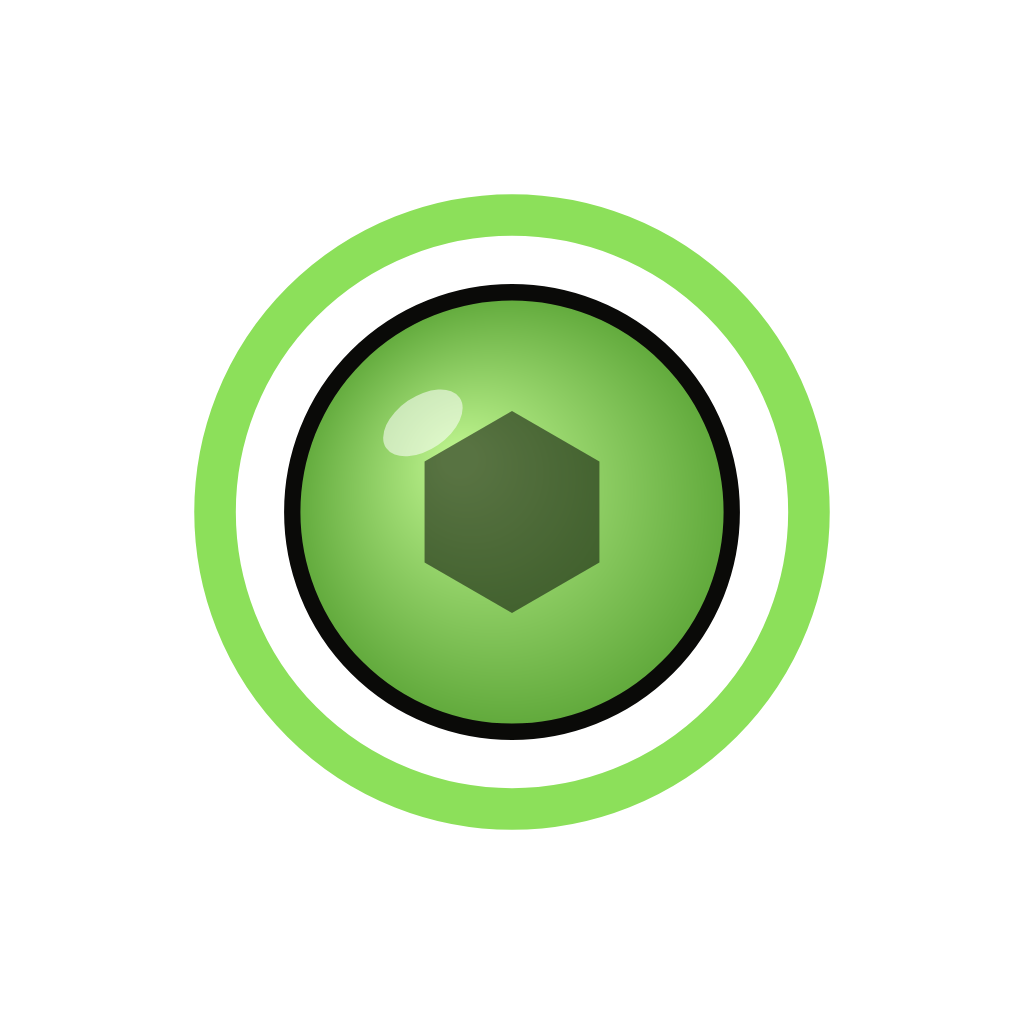
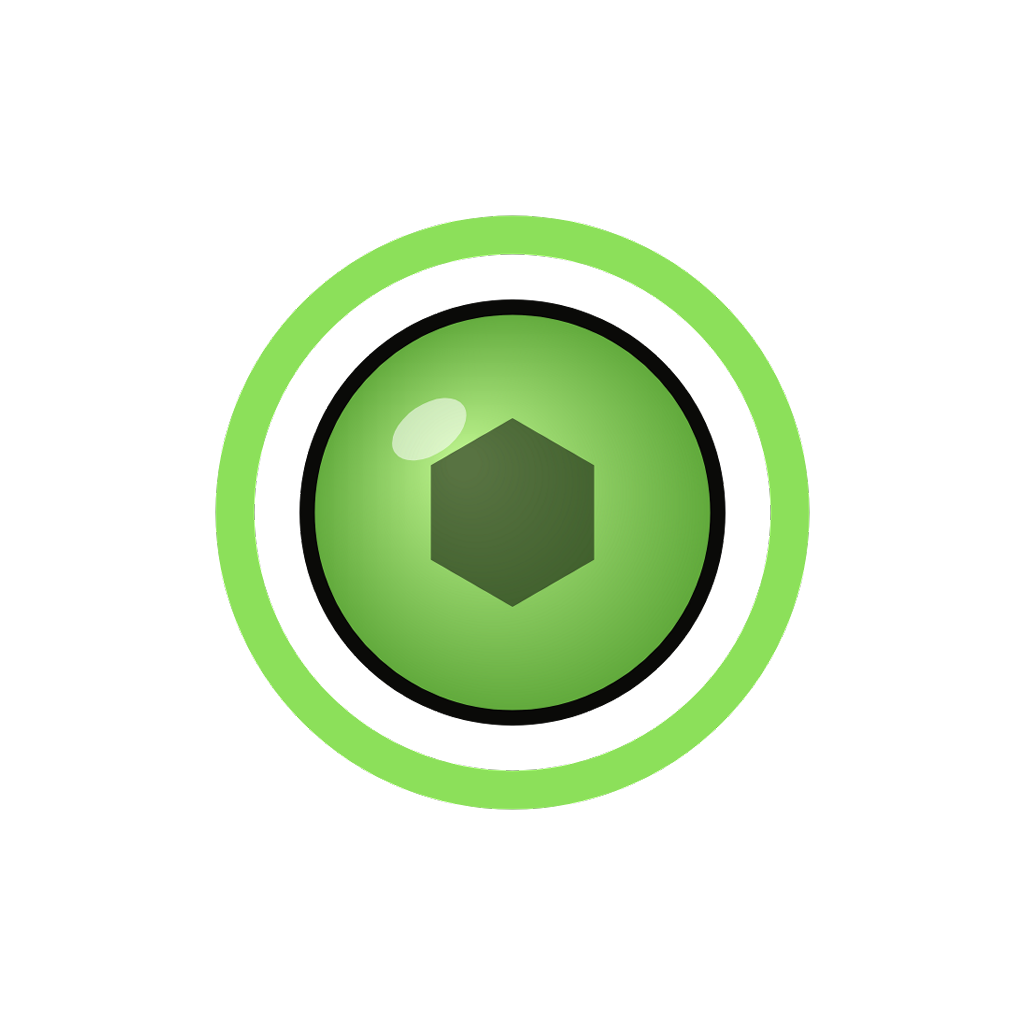
fix: Android adaptif ikonu güvenli alana çekildi
adaptive-icon.png ile splash-icon.png bire bir aynı dosyaydı; ikincisi hiçbir
zaman adaptif ön katman olarak tasarlanmamıştı.

ÖLÇÜM README'DEKİ TEŞHİSİ DÜZELTTİ. Orada "Android dış bölgeyi kırptığı için
logonun kenarları kesiliyor" yazıyordu — öyle değilmiş. Dosya saydam (%76.7
alfa-0, yani backgroundColor gerçekten görünüyor) ve içerik kanvasın %62.1'ini
kaplıyor, tam merkezde. Android'in ölçü sistemi üç halkalı: katman 108dp,
maskeye giren görüş alanı 72dp (%66.7), kritik içerik için güvenli daire 66dp
(%61.1). Yani logo görüş alanının İÇİNDEYDİ, kesilmiyordu — ama güvenli daireyi
bir puan aşıyor ve maskenin kenarına dayanıyordu: dairesel maskede halka görünür
alanın %93'üne kadar gidiyor, hiç nefes payı kalmıyordu.

Düzeltme: içerik %58'e (≈62.6dp) çekildi, güvenli dairenin içine. Logo tek
seferde yeniden örneklendi (bikübik), saydamlık korundu, merkez kayması tam
sıfır. Dosya artık splash-icon.png'nin kopyası değil, ikisi ayrıştı.

version 0.2.0 -> 0.3.0: ikon mipmap/ic_launcher_foreground olarak DERLENEN bir
native kaynak, kablosuz güncellemeyle gidemez. runtimeVersion politikası
appVersion olduğu için artırmak, bu ikonu taşımayan eski kurulumların yeni JS
güncellemelerini çekmesini de engelliyor.

README'de yanlış teşhis düzeltildi ve "Uygulama ikonu" başlığı eklendi: üç
varlığın oranları (icon %66.4 opak, adaptive %58 saydam, splash %62.1 saydam),
108/72/66dp ölçü sistemi, saydamlığın neden korunması gerektiği ve ölçümün nasıl
tekrarlanacağı.
[…]

diff --git a/README.md b/README.md
@@ -404,10 +404,29 @@ WAKE_LOCK  WRITE_EXTERNAL_STORAGE
 
 `SYSTEM_ALERT_WINDOW`, `READ_MEDIA_VIDEO`, `READ_MEDIA_AUDIO` ve `RECORD_AUDIO` listede yok. **Debug** varyantında ise `SYSTEM_ALERT_WINDOW` duruyor (medya izinleri orada da düşüyor) — yani dev menüsü çalışmaya devam ediyor, tasarlanan ayrım tutuyor.
 
+### Uygulama ikonu
+
+Üç ayrı varlık, üç ayrı kural — birini diğerinin yerine koyamazsın:
+
+| Dosya | Nerede | İçeriğin kanvasa oranı |
+|---|---|---|
+| `icon.png` | iOS + genel | %66.4, opak koyu zemin (köşeler yalnızca hafifçe yuvarlanıyor) |
+| `adaptive-icon.png` | Android launcher | **%58**, saydam zemin |
+| `splash-icon.png` | açılış ekranı | %62.1, saydam zemin (`imageWidth: 200` ile ayrıca ölçekleniyor) |
+
+Android'in adaptif ikonu üç halkalı bir ölçü sistemi kullanıyor: katman **108dp**, maskeye giren görüş alanı **72dp** (%66.7), kritik içerik için güvenli daire **66dp** (%61.1). Dış bölge parallax için ayrılmış ve durağan görünümde kırpılıyor.
+
+`adaptive-icon.png` eskiden `splash-icon.png` ile bire bir aynı dosyaydı; içerik %62.1'de, yani 66dp güvenli dairesinin bir puan dışındaydı. Kesilmiyordu ama maskenin kenarına dayanıyordu — dairesel maskede halka görünür alanın %93'üne kadar gidiyor, hiç nefes payı kalmıyordu. Şimdi %58'e çekildi (≈62.6dp), güvenli dairenin içinde.
+
+Zemin **dosyaya gömülmüyor**: ön katman saydam, arka plan `app.json` → `android.adaptiveIcon.backgroundColor` (`#0A0A08`) ile geliyor. Yeni bir varyant üretirken bu saydamlık korunmalı, yoksa maskenin köşelerinde ikonun kendi zemini görünür.
+
+Ölçmek için (herhangi bir görüntü aracıyla): saydam olmayan piksellerin sınır kutusunu al, kenar uzunluğunu kanvas genişliğine böl. Merkez kayması 0 olmalı.
+
+İkon **native bir kaynak** (`mipmap/ic_launcher_foreground`), yani kablosuz güncellemeyle gitmiyor — değiştirildiğinde `app.json`'daki `version` elle artırılmalı ve yeni bir build alınmalı.
+
 ## Bilinen açık uçlar
 
 - Onboarding tek ekranda (`welcome.tsx`); planlanan ek adımlar henüz yok. Akış bağlı ve testli — adım eklemek istendiğinde `app/index.tsx`'teki karara dokunmadan `(onboarding)` altına yeni ekran koymak yeterli.
 - Yasal metinler ve `settings/help.tsx`'in render testi yok — içerikleri statik. Veri yazan ve geri alınamaz akışların hepsi testli.
-- `assets/images/adaptive-icon.png` ile `splash-icon.png` bire bir aynı dosya. Android adaptif ikonun dış bölgesini kırptığı için logonun kenarları kesiliyor — güvenli alanı olan ayrı bir varyant gerekiyor.
 - `npm run gen:types` yalnızca proje Supabase CLI'a link'liyken çalışır; aksi halde `lib/database.types.ts` elle güncellenmeli.
 - Galeriye kaydetme (`app/compare/index.tsx`), `expo-media-library`'yi try/catch'li `require` ile yüklüyor: bu native modül Expo Go'da bulunmadığı için import anında throw eder, yakalanır ve "Kaydet" bilinçli olarak devre dışı kalıp kullanıcıyı development build'e / "Paylaş"a yönlendirir. Beklenen davranış — galeri kaydı için development/production build gerekir.
